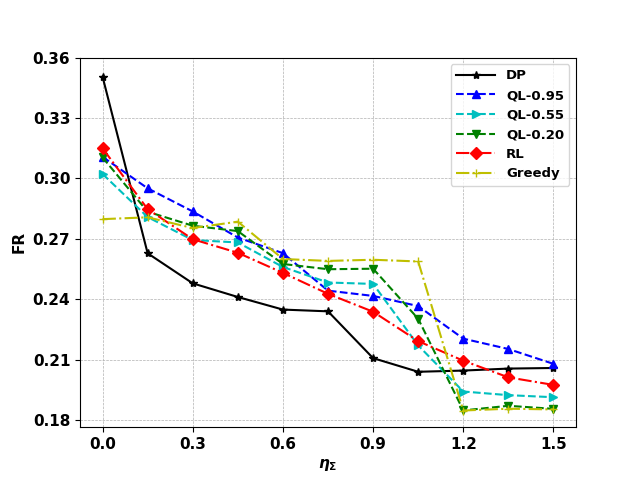
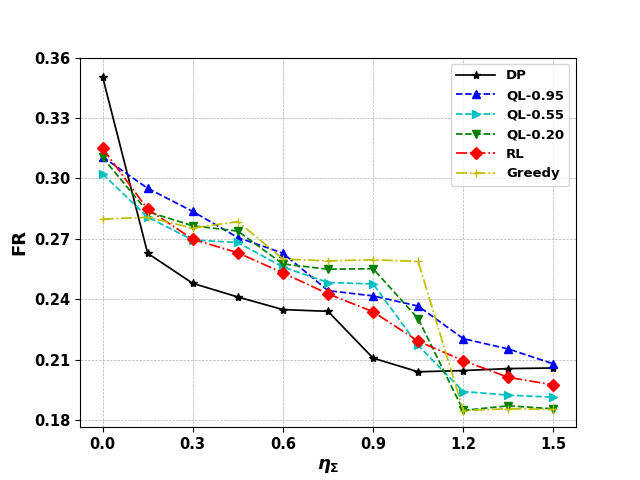
simulation results

diff --git a/Single-Provider-Federation/reject-overcharge-multi_resource/simulations-2/fig_plotter.py b/Single-Provider-Federation/reject-overcharge-multi_resource/simulations-2/fig_plotter.py
@@ -1,0 +1,75 @@
+import json
+import numpy as np
+import math
+import matplotlib
+import matplotlib.pyplot as plt
+import sys
+
+def plotter(x_label, y_label, x, greedy_000, greedy_050, greedy_100, DP_05, DP_30, DP_60, DP_99, QL_95, QL_55, QL_20, RL, output):
+
+    font = {
+            'weight' : 'bold',
+            'size'   : 10.5
+        }
+
+    matplotlib.rc('font', **font)
+    plt.rcParams["axes.labelweight"] = "bold"
+    plt.rcParams["axes.labelsize"] = "13"
+
+    fig, ax = plt.subplots()
+
+    plt.grid(linestyle="--", linewidth=0.5)
+
+    if x_label == "episode":
+        plt.xlabel(r'$n$')
+    elif x_label == "LC":
+        plt.xlabel(r'$\eta_{C^{l}}$')
+    elif x_label == "PC":
+        plt.xlabel(r'$\eta_{C^{p}}$')
+    elif x_label == "FC":
+        plt.xlabel(r'$\eta_{\Sigma}$')
+    elif x_label == "Omega":
+        plt.xlabel(r'$\eta_{\omega}$')
+    elif x_label == "Theta":
+        plt.xlabel(r'$\eta_{\theta}$')
+    elif x_label == "Lambda":
+        plt.xlabel(r'$\eta_{\lambda}$')
+    else:
+        print("Unknow axis X")
+        sys.exit(-1)
+
+    plt.ylabel(y_label)
+
+    plt.plot(x, DP_99, label='DP', color='k', linestyle='solid', linewidth=1.25, marker = '*')
+
+    plt.plot(x, QL_95, label='QL-0.95', color='b', linestyle='dashed', linewidth=1.25, marker = '^')
+    plt.plot(x, QL_55, label='QL-0.55', color='c', linestyle='dashed', linewidth=1.25, marker = '>')
+    plt.plot(x, QL_20, label='QL-0.20', color='g', linestyle='dashed', linewidth=1.25, marker = 'v')
+
+    plt.plot(x, RL, label='RL', color='r', linestyle='-.', linewidth=1.25, marker = 'D')
+
+    plt.plot(x, greedy_100, label='Greedy', color='y', linestyle='dashdot', linewidth=1.25, marker = '+')
+
+    plt.legend(loc='best', handlelength=3, prop={'size': 9.5})
+
+    x_ticks = [x[i] for i in range(0, len(x) + 1, 2)]
+    ax.set_xticks(x_ticks)
+
+    min_y = min(min(DP_99), min(QL_95), min(QL_55), min(QL_20), min(RL), min(greedy_100))
+    max_y = max(max(DP_99), max(QL_95), max(QL_55), max(QL_20), max(RL), max(greedy_100))
+    max_yticks = 6
+    step_y = (max_y - min_y) / max_yticks
+
+    if step_y < 1:
+        min_y = max(0, round(min_y - step_y / 3, 2))
+        step_y = round(step_y, 2)
+        y_ticks = [min_y + i * step_y for i in range(max_yticks + 1)]
+    else:
+        min_y = max(0, int(min_y - step_y / 3))
+        step_y = int(round(step_y, 0))
+        y_ticks = [min_y + i * step_y for i in range(max_yticks + 1)]
+
+    ax.set_yticks(y_ticks)
+
+
+    plt.savefig(output+".png")

diff --git a/Single-Provider-Federation/reject-overcharge-multi_resource/simulations-2/res_plotter_gr_dp_3ql_rl.py b/Single-Provider-Federation/reject-overcharge-multi_resource/simulations-2/res_plotter_gr_dp_3ql_rl.py
@@ -1,11 +1,12 @@
 #!/usr/bin/python3
 
 import json
-from numpy import *
+import numpy as np
 import math
 import matplotlib
 import matplotlib.pyplot as plt
 import sys
+import fig_plotter
 
 if len(sys.argv) < 2:
     print("Usage: ", str(sys.argv[0]), "input_file")
@@ -46,50 +47,6 @@ for data in results:
     QL_20.append(data["QL_20"])
     RL.append(data["RL"])
 
-
-font = {
-        'weight' : 'bold',
-        'size'   : 12}
-
-matplotlib.rc('font', **font)
-plt.rcParams["axes.labelweight"] = "bold"
-
-fig, ax = plt.subplots()
-plt.grid(linestyle="--", linewidth=0.5)
-
-if x_label == "episode":
-    plt.xlabel(r'$n$')
-elif x_label == "LC":
-    plt.xlabel(r'$\eta_{C^{l}}$')
-elif x_label == "PC":
-    plt.xlabel(r'$\eta_{C^{p}}$')
-elif x_label == "FC":
-    plt.xlabel(r'$\eta_{\Sigma}$')
-elif x_label == "Omega":
-    plt.xlabel(r'$\eta_{\omega}$')
-elif x_label == "Theta":
-    plt.xlabel(r'$\eta_{\theta}$')
-elif x_label == "Lambda":
-    plt.xlabel(r'$\eta_{\lambda}$')
-else:
-    print("Unknow axis X")
-    sys.exit(-1)
-
-plt.ylabel(y_label)
-
-plt.plot(x, DP_99, label='DP', color='k', linestyle='solid', linewidth=2, marker = '*')
-
-plt.plot(x, QL_95, label='QL-0.95', color='c', linestyle='dashed', linewidth=2, marker = '^')
-plt.plot(x, QL_55, label='QL-0.55', color='m', linestyle='dashed', linewidth=2, marker = '>')
-plt.plot(x, QL_20, label='QL-0.20', color='y', linestyle='dashed', linewidth=2, marker = 'v')
-
-plt.plot(x, RL, label='RL', color='r', linestyle='-.', linewidth=2, marker = 'D')
-
-plt.plot(x, greedy_100, label='Greedy', color='g', linestyle='dashdot', linewidth=2, marker = '+')
-
-plt.legend(loc='best', handlelength=4)
-
-#plt.show()
-plt.savefig(str(sys.argv[1])+".png")
+fig_plotter.plotter(x_label, y_label, x, greedy_000, greedy_050, greedy_100, DP_05, DP_30, DP_60, DP_99, QL_95, QL_55, QL_20, RL, str(sys.argv[1]))
 
 

diff --git a/Single-Provider-Federation/reject-overcharge-multi_resource/simulations-2/gap_plotter_gr_dp_3ql_rl.py b/Single-Provider-Federation/reject-overcharge-multi_resource/simulations-2/gap_plotter_gr_dp_3ql_rl.py
@@ -1,12 +1,12 @@
 #!/usr/bin/python3
 
-
 import json
 from numpy import *
 import math
 import matplotlib
 import matplotlib.pyplot as plt
 import sys
+import fig_plotter
 
 if len(sys.argv) < 2:
     print("Usage: ", str(sys.argv[0]), "input_file")
@@ -71,51 +71,5 @@ for data in results:
     QL_20.append(QL_20_tmp)
     RL.append(RL_tmp)
 
-
-font = {
-        'weight' : 'bold',
-        'size'   : 12}
-
-matplotlib.rc('font', **font)
-plt.rcParams["axes.labelweight"] = "bold"
-
-fig, ax = plt.subplots()
-plt.grid(linestyle="--", linewidth=0.5)
-
-if x_label == "episode":
-    plt.xlabel(r'$n$')
-elif x_label == "LC":
-    plt.xlabel(r'$\eta_{C^{l}}$')
-elif x_label == "PC":
-    plt.xlabel(r'$\eta_{C^{p}}$')
-elif x_label == "FC":
-    plt.xlabel(r'$\eta_{\Sigma}$')
-elif x_label == "Omega":
-    plt.xlabel(r'$\eta_{\omega}$')
-elif x_label == "Theta":
-    plt.xlabel(r'$\eta_{\theta}$')
-elif x_label == "Lambda":
-    plt.xlabel(r'$\eta_{\lambda}$')
-else:
-    print("Unknow axis X")
-    sys.exit(-1)
-
-plt.ylabel("Gap")
-
-
-plt.plot(x, DP_99, label='DP', color='k', linestyle='solid', linewidth=2, marker = '*')
-
-plt.plot(x, QL_95, label='QL-0.95', color='c', linestyle='dashed', linewidth=2, marker = '^')
-plt.plot(x, QL_55, label='QL-0.55', color='m', linestyle='dashed', linewidth=2, marker = '>')
-plt.plot(x, QL_20, label='QL-0.20', color='y', linestyle='dashed', linewidth=2, marker = 'v')
-
-plt.plot(x, RL, label='RL', color='r', linestyle='-.', linewidth=2, marker = 'D')
-
-plt.plot(x, greedy_100, label='Greedy', color='g', linestyle='dashdot', linewidth=2, marker = '+')
-
-plt.legend(loc='best', handlelength=4)
-
-
-plt.savefig("gap_"+str(sys.argv[1])+".png")
-
+fig_plotter.plotter(x_label, "Gap", x, greedy_000, greedy_050, greedy_100, DP_05, DP_30, DP_60, DP_99, QL_95, QL_55, QL_20, RL, "gap")
 
